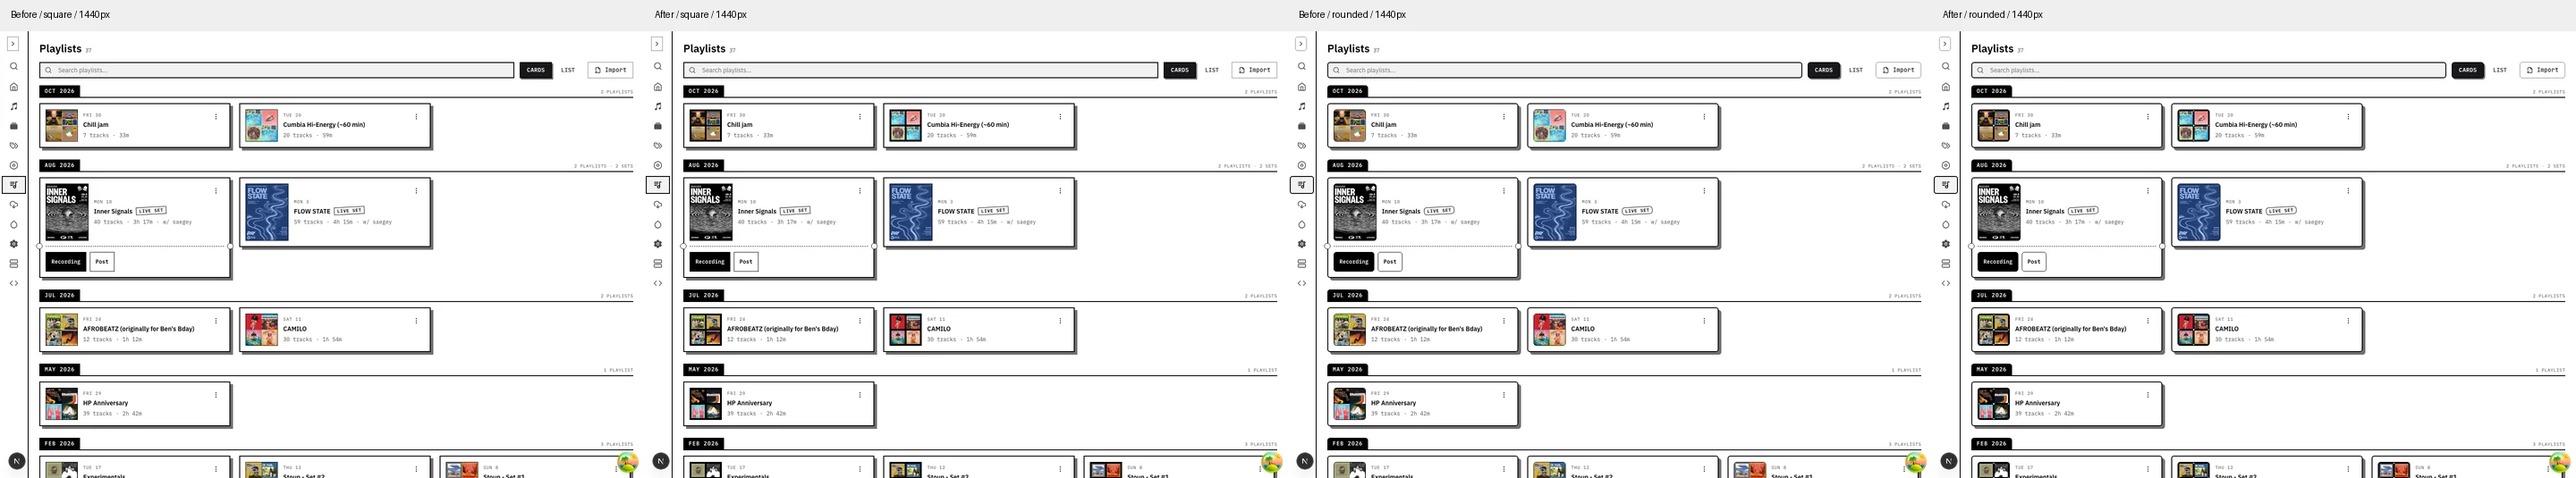
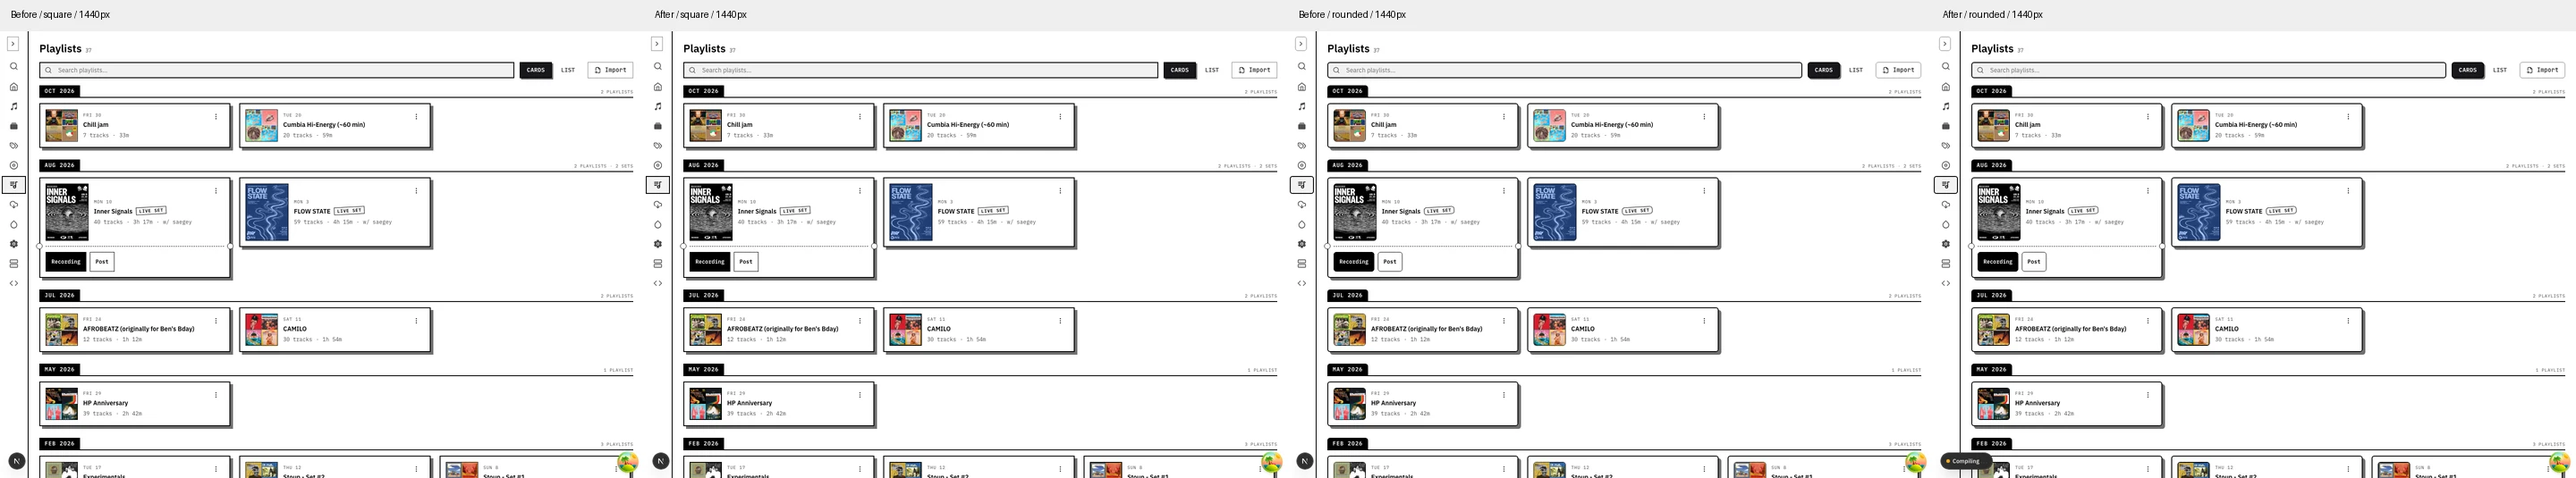
fix(ui): remove borders between playlist mosaic tiles

diff --git a/my-collection-search/src/components/PlaylistListItem.test.tsx b/my-collection-search/src/components/PlaylistListItem.test.tsx
@@ -99,7 +99,7 @@ describe("PlaylistListItem", () => {
     expect(screen.getByTestId("playlist-meta").textContent).not.toMatch(/2026|ago|Today|Yesterday/);
   });
 
-  it("renders a 2x2 mosaic from cover_urls, tinting the missing cells", async () => {
+  it("renders a seamless 2x2 mosaic with a single outer frame", async () => {
     const { screen } = await import("@testing-library/react");
     renderWithProviders(
       <PlaylistListItem
@@ -112,6 +112,13 @@ describe("PlaylistListItem", () => {
     );
     expect(screen.getAllByTestId("mosaic-cover")).toHaveLength(2);
     expect(screen.getAllByTestId("mosaic-tint")).toHaveLength(2);
+    for (const tile of [
+      ...screen.getAllByTestId("mosaic-cover"),
+      ...screen.getAllByTestId("mosaic-tint"),
+    ]) {
+      expect(getComputedStyle(tile).borderWidth).toBe("0px");
+      expect(getComputedStyle(tile).borderRadius).toBe("0px");
+    }
   });
 
   it("falls back to four tinted blocks without cover_urls", async () => {

diff --git a/my-collection-search/src/components/PlaylistListItem.tsx b/my-collection-search/src/components/PlaylistListItem.tsx
@@ -39,7 +39,8 @@ export function CoverMosaic({ urls, size = "72px" }: { urls: string[]; size?: st
             src={urls[i]}
             alt=""
             fill
-            inset
+            borderWidth={0}
+            borderRadius={0}
             data-testid={urls[i] ? "mosaic-cover" : "mosaic-tint"}
           />
         ))}

diff --git a/evaluations/cover-978/README.md b/evaluations/cover-978/README.md
@@ -7,7 +7,7 @@ Set flyers remain portrait images, separate from square album covers.
 
 Tune `coverTokens` in `src/app/houseStyle.ts` to change the border width, colour,
 radius, monochrome filter and transition. Covers follow `--gn-radius`, including
-Corners; mosaic tiles use `innerRadius` inside the surrounding outline. Optional
+Corners; mosaic tiles are borderless and square, clipped by the shared outer frame. Optional
 `--gn-cover-border-width`, `--gn-cover-border-color` and `--gn-cover-grayscale`
 variables support scoped previews. Monochrome defaults to zero. Hover and keyboard
 focus restore colour; `playing` keeps the active cover in colour. Filter transitions
